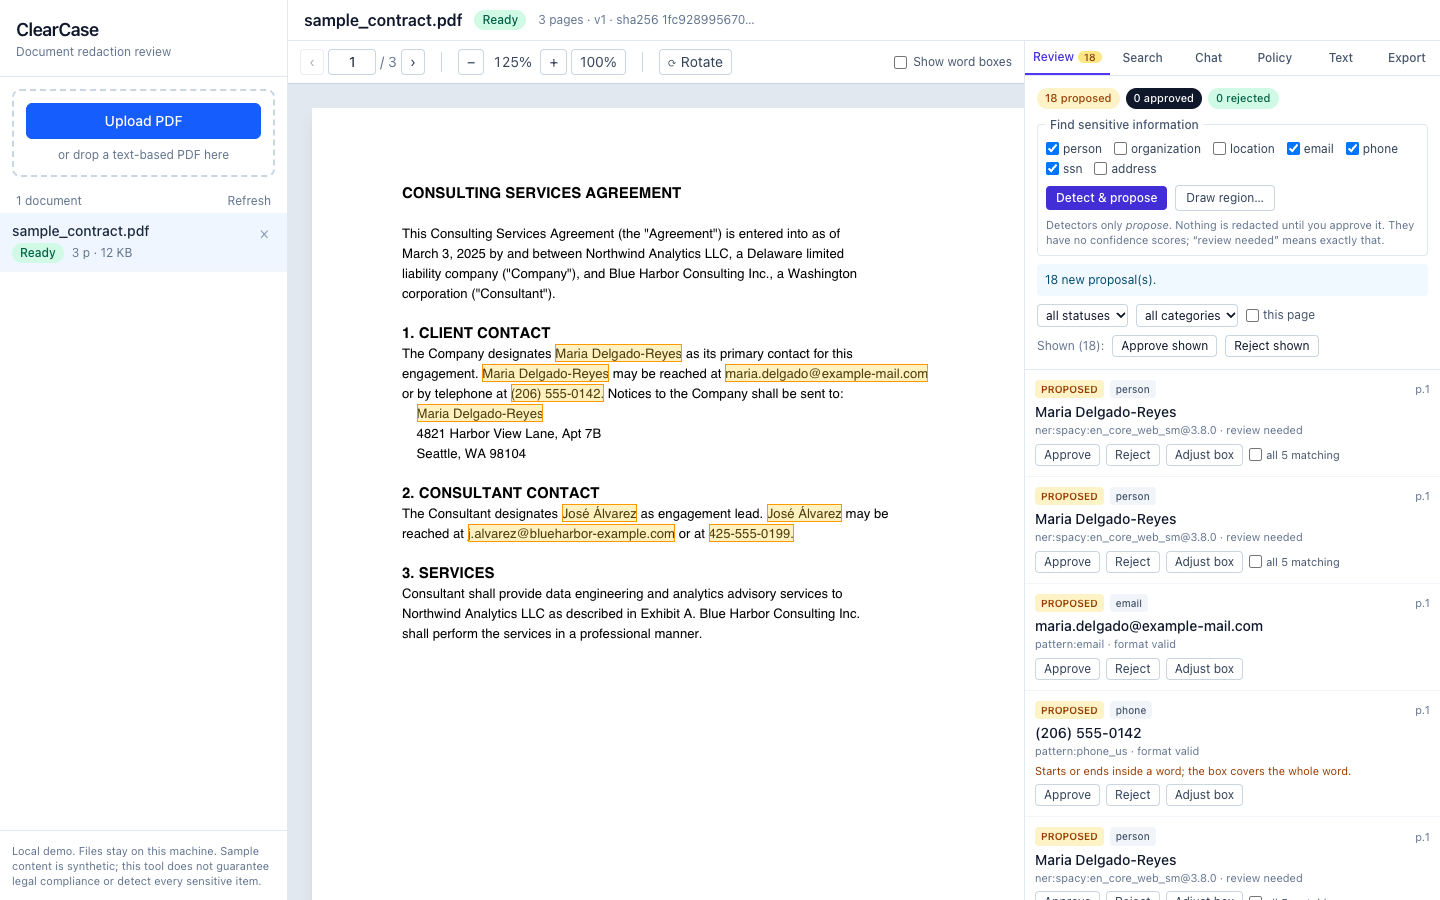
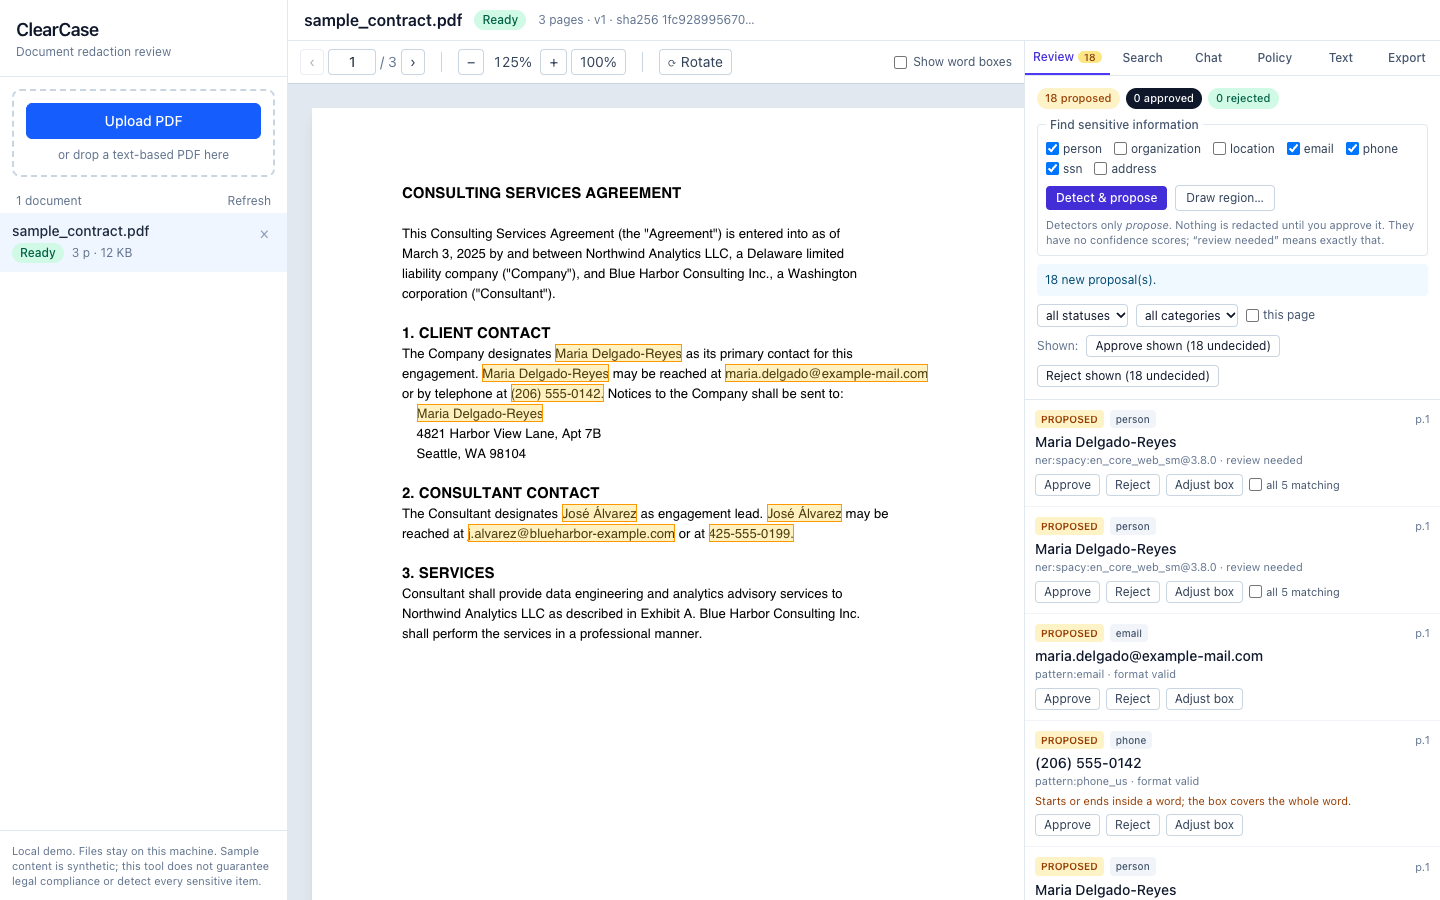
Docs and screenshots after the bulk-button fix (PR #11)
The fix merged separately, so: regenerate the README screenshots against the fixed UI (the buttons
now read "Approve shown (18 undecided)"), update the screenshot script to match the browser test,
and correct the docs that still described the problem as open (status, decision 52, demo script,
interview guide). Frontend tests are now 100.

Changed region(s): [[0.7188, 0.3733, 0.9375, 1.0]]

diff --git a/frontend/e2e-screenshots/screenshots.spec.ts b/frontend/e2e-screenshots/screenshots.spec.ts
@@ -31,10 +31,8 @@ test('README screenshots', async ({ page }) => {
   // 2. The reviewer decides: reject one, approve the rest.
   const findings = page.getByLabel('Findings', { exact: true }).getByRole('listitem')
   await findings.first().getByRole('button', { name: 'Reject', exact: true }).click()
-  await page.getByLabel('Filter by status').selectOption('proposed')
-  await page.getByRole('button', { name: 'Approve shown' }).click()
+  await page.getByRole('button', { name: /^Approve shown/ }).click() // acts only on the undecided ones, so the rejection stays
   await expect(page.getByText('0 proposed')).toBeVisible()
-  await page.getByLabel('Filter by status').selectOption('all')
   await shot(page, '02-review-and-approve.png')
 
   // 3. The chat assistant (scripted demo mode) quotes a policy sentence with a checked citation.

diff --git a/PROJECT_STATUS.md b/PROJECT_STATUS.md
@@ -177,7 +177,7 @@ Frontend (Phases 1-2):
 
 ## Test results (actually run)
 
-**Latest full backend run (2026-10-15, `phase-6-retrieval-set2`, with the evaluation and second-set tests):** **`585 passed in 551.82s`**, `ruff check app tests` clean. (The 563 earlier on 2026-10-15 predates the 22 second-set tests.) **Phase 5 runs (on `phase-5-agent`):** backend **`525 passed in 534.52s`**, `ruff check app tests` clean; frontend lint and typecheck clean, `npm test` **94 passed**, `npm run build` OK, `npm audit` 0 vulnerabilities. Earlier run, after the hardening bundle (merged as PR #5): backend **`314 passed in 606.95s`** (271 before the bundle; slower than the previous ~350 s because a Docker image build ran at the same time), `ruff check app tests` clean; frontend `npm run lint` clean, typecheck clean, `npm test` **68 passed** (58 before), `npm run build` OK, `npm audit` 0 vulnerabilities; Docker: both images built, stack healthy, non-root, `seed-samples` run inside it. **CI has not run on this branch yet.**
+**Latest full backend run (2026-10-15, `phase-6-retrieval-set2`, with the evaluation and second-set tests):** **`585 passed in 551.82s`**, `ruff check app tests` clean. Frontend after the bulk-button fix (PR #11): lint and typecheck clean, `npm test` **100 passed**, `npm run build` OK, and the five browser tests pass (2026-10-15). (The 563 earlier on 2026-10-15 predates the 22 second-set tests.) **Phase 5 runs (on `phase-5-agent`):** backend **`525 passed in 534.52s`**, `ruff check app tests` clean; frontend lint and typecheck clean, `npm test` **94 passed**, `npm run build` OK, `npm audit` 0 vulnerabilities. Earlier run, after the hardening bundle (merged as PR #5): backend **`314 passed in 606.95s`** (271 before the bundle; slower than the previous ~350 s because a Docker image build ran at the same time), `ruff check app tests` clean; frontend `npm run lint` clean, typecheck clean, `npm test` **68 passed** (58 before), `npm run build` OK, `npm audit` 0 vulnerabilities; Docker: both images built, stack healthy, non-root, `seed-samples` run inside it. **CI has not run on this branch yet.**
 
 The figures below are from the end of Phase 1 and are kept for history.
 
@@ -301,8 +301,8 @@ the backend runs as uid 10001 (non-root), and the same five browser tests **pass
 Docker, a fresh database inside the stack, the scripted assistant; the pinned embedding model was copied from the local cache into the
 `models` volume, so nothing was downloaded). The temporary port override and scratch database were removed afterwards.
 
-Found: bulk "Approve shown"/"Reject shown" overwrite decisions already made when the status filter is "all" (filed as a separate
-task; the test filters to undecided findings). Details and limits: decision 52.
+Found: bulk "Approve shown"/"Reject shown" overwrote decisions already made when the status filter was "all". **Fixed afterwards in PR #11**
+(decision 54; the buttons now act only on undecided findings and say how many). Details and limits: decision 52.
 
 ### Phase 6: second retrieval question set (2026-10-15, branch `phase-6-retrieval-set2`)
 
@@ -574,7 +574,6 @@ detectors and three hosted models, cost, time, tool use, injected-document behav
 - Component tests run in happy-dom, which cannot prove focus trapping or real layout; the Playwright test covers focus and Escape for
   the citation dialog in one real browser engine. Real layout, other browsers and phones are still unchecked.
 - The interface is a desktop layout (about 900 px wide or more); no responsive or phone layout.
-- Bulk "Approve shown"/"Reject shown" overwrite earlier decisions when the status filter is "all" (filed as a separate task).
 - Policies cited by findings can be deleted; the delete confirmation says how many findings cite it and the UI then
   shows the passage as unavailable (it does not block deletion).
 - Chunker changes never re-chunk existing policy versions (on purpose: citation ids must keep pointing at the same
@@ -585,8 +584,8 @@ detectors and three hosted models, cost, time, tool use, injected-document behav
 
 ## Next implementation step
 
-1. Merge the docs PR (demo script, interview guide, README fixes). The bulk "Approve shown/Reject shown" fix is being done in a
-   separate session; it will also need to adjust `frontend/e2e/review-flow.spec.ts` if it changes what the default view does.
+1. Merge the polish PR (README screenshots, the Authorize-export wording fix, stale README text, and the doc updates after the
+   bulk-button fix). Then tag a release and tidy the merged remote branches (the owner decides).
 2. Continue **Phase 6** (list above). Keep `CLEARCASE_ASSISTANT_MODE=demo` for CI and the default demo; live mode needs the
    user's key in `.env` and spends real credit (about $0.03-$0.17 per request observed; the account is prepaid with
    auto-reload off). `scripts/live_check.py` is the manual way to look at it.

diff --git a/docs/interview_guide.md b/docs/interview_guide.md
@@ -97,12 +97,12 @@ sentence model run locally. The diagram is in `docs/architecture.md`.
 | Question | Answer |
 | --- | --- |
 | Did you train a model? | No. Pretrained spaCy and a pretrained embedding model; the language model is a hosted API. |
-| How do you know it works? | Backend tests against a real MongoDB (585), component tests (94), a real-browser test (5), plus the pre-registered evaluation. Each says what it covers; none says it works on real documents. |
+| How do you know it works? | Backend tests against a real MongoDB (585), component tests (100), a real-browser test (5), plus the pre-registered evaluation. Each says what it covers; none says it works on real documents. |
 | How do you test the tests? | I break the code on purpose and check the tests fail. Several tests passed for the wrong reason until I did (see decisions 50-52). |
 | What if the model follows an injected instruction in the PDF? | It still cannot approve, cannot export without the reviewer's authorization, and cannot read other documents. Injection is defended by structure, not by trusting the model (decision 22). |
 | Is it secure? | It is a local demo: the identity is not authentication, and live mode sends excerpts to a provider (the UI says so and asks first). Keys live only in the git-ignored `.env`; the SDK exception is not chained, so a key cannot reach logs or the database. |
 | What was the hardest bug? | Pick one: the policy tool failing in live mode because the loop injected a `document_id` it does not take (found only by a real-server test); or the docstring that leaked a rule into the model's schema. |
-| What would you do next? | A harder, longer evaluation set with labels that separate personal from business addresses, written first; real authentication and a worker process; OCR for scanned pages; fix bulk "Approve shown" overwriting earlier decisions. |
+| What would you do next? | A harder, longer evaluation set with labels that separate personal from business addresses, written first; real authentication and a worker process; OCR for scanned pages; a responsive (phone) layout. A bug the browser test found, bulk "Approve shown" silently overwriting earlier decisions, is already fixed (decision 54). |
 
 ## Numbers you can quote (and where they come from)
 
@@ -114,7 +114,7 @@ sentence model run locally. The diagram is in `docs/architecture.md`.
 | Retrieval, right passage first / top 3 | 18/28 = 0.64 / 21/28 = 0.75 | `evaluation/README.md` (held-out, 28 answerable questions) |
 | Retrieval cutoff balanced accuracy | 0.84 dev, 0.56 first held-out, 0.61 second held-out, **0.60 pooled** (0.52-0.68) | decisions 30 and 53, `evaluation/retrieval2/REPORT.md` |
 | Retrieval, right passage in top 3 (pooled, 64 answerable questions) | 0.81 (0.70-0.89) | same |
-| Tests | 585 backend, 94 frontend, 5 browser | `PROJECT_STATUS.md` |
+| Tests | 585 backend, 100 frontend, 5 browser | `PROJECT_STATUS.md` |
 
 ## Plain-English glossary
 

diff --git a/docs/demo_script.md b/docs/demo_script.md
@@ -26,7 +26,7 @@ Then, in the app, so the live part has nothing to wait for:
 | 0:00 | Show the empty app. | "ClearCase helps a person redact a legal PDF. The rule of the whole project: **tools propose, a human decides, and nothing claims to be legal compliance.**" |
 | 0:20 | Upload `sample_contract.pdf`. Page 1 appears. | "The file is checked by its bytes, stored unchanged in MongoDB, and I extract the text of every page with the position of every word. Everything later, search, detection and the final redaction, uses those positions. A language model never invents coordinates." |
 | 0:45 | **Search** tab: `Northwind`. Then **Review** tab: **Detect & propose**. | "Detection is two things: patterns for e-mails, phones and SSN-shaped numbers, and a pretrained spaCy model for names. Nothing is approved. Note that company names are *not* proposed: the organisation box is off, because the task is to keep company names visible." |
-| 1:05 | Reject the first finding (a "Maria Delgado-Reyes"). Set the status filter to *proposed*, click **Approve shown**. | "I decide. I rejected this one and approved the rest. The spaCy model is pretrained and not perfect, which is exactly why a human reviews." |
+| 1:05 | Reject the first finding (a "Maria Delgado-Reyes"). Click **Approve shown (17 undecided)**; it acts only on findings you have not decided yet, so your rejection stays. | "I decide. I rejected this one and approved the rest. The spaCy model is pretrained and not perfect, which is exactly why a human reviews." |
 | 1:30 | **Chat** tab. Click the `summary` chip, send. Open **What it did**. | "This is the assistant. In this offline mode it is a labelled script, not an AI. It calls the same tools a live model would, over MCP, and shows every tool call." |
 | 1:45 | Send `policy can company names stay visible?`. Click the citation chip. Press Escape. | "It quotes a sentence from a policy and cites it. The citation is checked by code: the passage was really retrieved and the quote really appears in it. It shows what the policy says; it does not decide." |
 | 2:10 | Send `export`. It refuses. Click **Authorize export**, then **Ask the assistant to export now**. | "The assistant cannot export on its own. Only I can arm it, for five minutes, once. Even then it exports only what I approved." |

diff --git a/README.md b/README.md
@@ -54,7 +54,7 @@ demo assistant (no AI model, no network). `cd frontend && E2E_CHANNEL=chrome npm
   Export requires a 5-minute, hash-pinned authorization the model cannot create.
 - Deleting a document removes pages, findings, revisions, exports, GridFS files
   and audit payloads.
-- 585 backend tests against a **real MongoDB**, 94 frontend tests (geometry and components) and 5 real-browser end-to-end tests (see Tests below).
+- 585 backend tests against a **real MongoDB**, 100 frontend tests (geometry and components) and 5 real-browser end-to-end tests (see Tests below).
 
 ### Policy library and retrieval (Phase 4)
 
@@ -221,7 +221,7 @@ cd backend && .venv/bin/python -m pytest -q
 cd backend && .venv/bin/ruff check app tests      # lint (CI runs it too)
 ```
 
-Frontend checks (94 tests: geometry maths plus React component tests that run in a simulated
+Frontend checks (100 tests: geometry maths plus React component tests that run in a simulated
 browser with a faked network):
 
 ```bash

diff --git a/docs/decisions.md b/docs/decisions.md
@@ -761,6 +761,7 @@ database, `clearcase_e2e`, dropped at every start, and ports 8011 and 5183 so it
 - *"Approve shown" overwrites decisions.* Reject one finding, then click "Approve shown" on the default view (all statuses) and
   the rejected finding is approved too; "Reject shown" un-approves findings. The test works around it (it filters to undecided
   findings first, as a careful reviewer would) and the fix was filed as a separate task rather than slipped into this change.
+  **Fixed afterwards, see decision 54** (the buttons now act only on undecided findings and the browser test no longer narrows the list).
 - *Not a bug, but easy to misread:* if the reviewer has just exported, asking the assistant to `export` returns that existing,
   still-current export instead of refusing (the documented "a retry returns the same export, never a second one"). A stale
   export is refused by the tool. The test checks that no second file is made.
